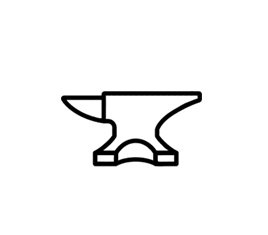
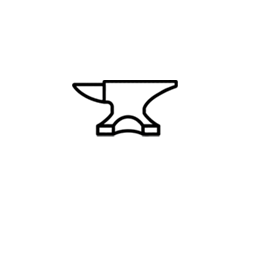
up

Changed region(s): [[0.2188, 0.2979, 0.7812, 0.7149]]

diff --git a/_includes/academia.html b/_includes/academia.html
@@ -9,16 +9,13 @@
             <div class="row">
                 <div class="col-lg-8 col-lg-offset-2 text-center">
                     <a href="https://www.dropbox.com/sh/166f9p90dmsj4yj/AABJKPkM8yfNz7OLT7cDPtdda?dl=0" target="_blank">
-                        <img src="img/academia/house.png" class="img-responsive img-centered" alt="Classes"/>
-                        Classes
+                        <img src="img/academia/house.png" class="img-centered" alt="Classes"/>
                     </a>
                     <a href="https://marcelomesmo.github.io/img/influencemap/mapa-de-influencia-BIG.gif" target="_blank">
-                        <img src="img/academia/map.png" class="img-responsive img-centered" alt="Influence Map"/>
-                        Influence Map
+                        <img src="img/academia/map.png" class="img-centered" alt="Influence Map"/>
                     </a>
                     <a href="#" target="_blank">
-                        <img src="img/academia/anvil.png" class="img-responsive img-centered" alt="Game Dev Workshop">
-                        Game Dev Workshop
+                        <img src="img/academia/anvil.png" class="img-centered" alt="Game Dev Workshop">
                     </a>
                     <!--<a href="#" class="btn btn-lg btn-outline">
                         Influence Map
